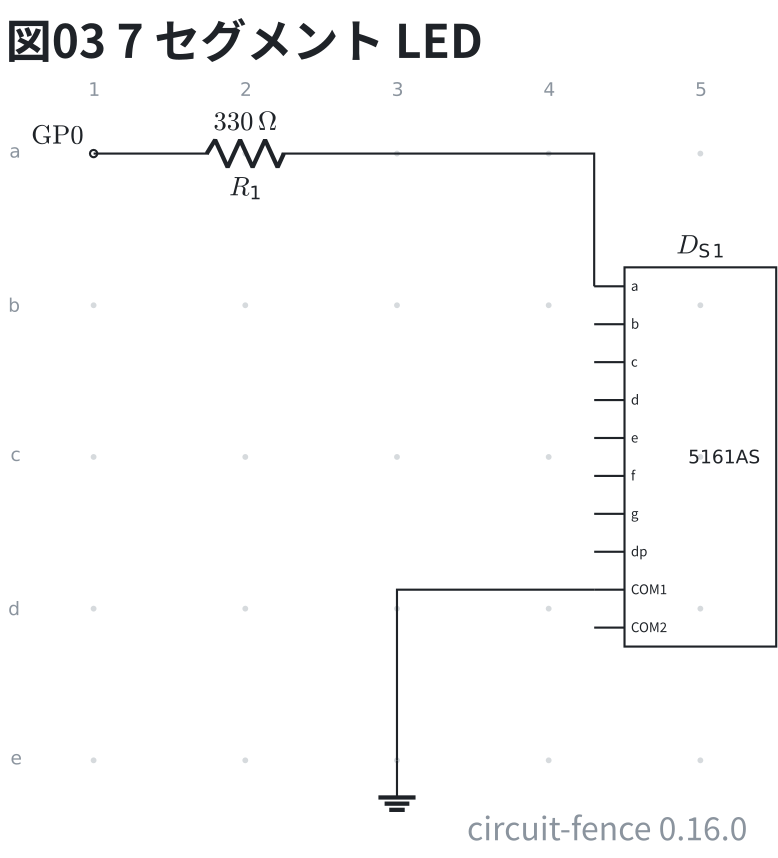
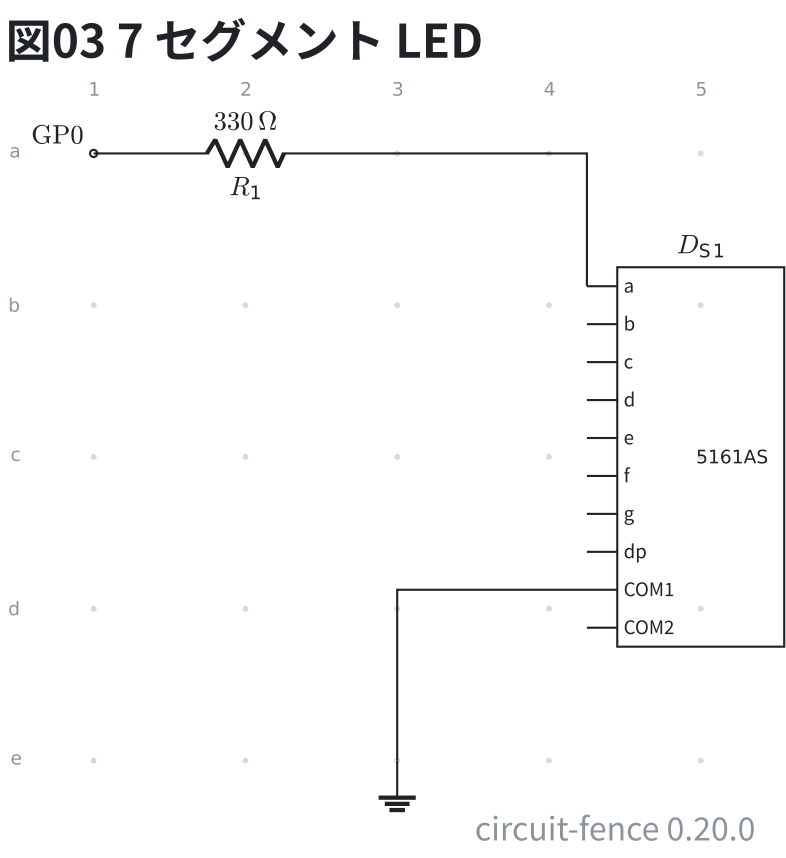
feat(circuit-fence): 働きで並べる ic に CD4511 を足す
🤖 Generated with [Claude Code](https://claude.com/claude-code)

diff --git a/packages/circuit-fence/src/core/parts.ts b/packages/circuit-fence/src/core/parts.ts
@@ -186,6 +186,11 @@ export type PartType = {
    */
   readonly pinLabels?: readonly string[];
   /**
+   * 足の名前の字の大きさ (TeX の命令)。既定は `\\tiny` — 40 本の DIP・ボードが
+   * 箱に収まる大きさ。足の少ない箱 (`ic`・`device`) は読める `\\scriptsize` にする。
+   */
+  readonly pinFont?: string;
+  /**
    * 足に書く番号 (`pinLabels` と同じ並び)。**名前と一緒に 1 つの字**として出し、
    * 番号は箱の外側の端に置く (`pinLabelText`)。持たない種類は名前だけ。
    */
@@ -617,6 +622,7 @@ export function deviceChip(names: readonly string[], label: string | null = null
     ]),
     pinRow: Object.fromEntries(anchors.map(([, anchor]) => [anchor, 'left' as const])),
     pinLabels: names,
+    pinFont: '\\scriptsize',
   };
 }
 
@@ -717,6 +723,7 @@ export function icChip(pinout: IcPinout): PartType {
     ...NO_UNIT,
     pins: named.pins,
     pinLabels: named.pinLabels,
+    pinFont: '\\scriptsize',
     pinNumbers: named.pinNumbers,
     pinNames: named.pinNames,
     // 並びは箱の上の順 (上の辺・左の辺・右の辺・下の辺)。升目がこの順で足を並べる。

diff --git a/packages/circuit-fence/src/core/icLayouts.ts b/packages/circuit-fence/src/core/icLayouts.ts
@@ -31,10 +31,23 @@ const timer555 = (power: string): IcLayout => ({
   bottom: ['GND', 'CONT'],
 });
 
+/**
+ * CD4511 (BCD → 7 セグ)。**入力 A〜D は左に下の桁から**、**出力 a〜g は右に
+ * セグメントの順** — 7 セグの箱を同じ順に並べれば線が交差しない。LT・BL は
+ * 普段 VDD に結ぶので VDD の隣 (上)、LE は普段 GND に結ぶので VSS の隣 (下)。
+ */
+const CD4511_LAYOUT: IcLayout = {
+  top: ['VDD', 'LT', 'BL'],
+  left: ['INA', 'INB', 'INC', 'IND'],
+  right: ['Oa', 'Ob', 'Oc', 'Od', 'Oe', 'Of', 'Og'],
+  bottom: ['VSS', 'LE/STROBE'],
+};
+
 /** 型番は fence-kit の表の**代表の綴り** (別の綴りも同じ行に当たる)。 */
 const LAYOUTS: readonly { readonly pins: number; readonly model: string; readonly layout: IcLayout }[] = [
   { pins: 8, model: 'NE555', layout: timer555('VCC') },
   { pins: 8, model: 'TLC555', layout: timer555('VDD') },
+  { pins: 16, model: 'CD4511B', layout: CD4511_LAYOUT },
 ];
 
 /** 型番から足の名前と働きの並びを引く。並びを持たない型番は null。 */

diff --git a/packages/circuit-fence/src/core/tex/generate.ts b/packages/circuit-fence/src/core/tex/generate.ts
@@ -1042,9 +1042,9 @@ function pinNameNodes(part: MultiTerminalPart, name: string, type: PartType | nu
     const options = [
       // フェンスは目印の色で置く (SVG で本物の字に差し替わる)。
       ...(target === 'latex' ? [] : [MARK_COLOR_NAME]),
-      // **40 本が箱に収まる大きさ**にする。`\scriptsize` だと左右の列が
-      // 箱の真ん中でぶつかった (実機で焼いて確かめた)。
-      'font=\\tiny',
+      // 既定は **40 本が箱に収まる大きさ**。`\scriptsize` だと左右の列が
+      // 箱の真ん中でぶつかった (実機で焼いて確かめた)。足の少ない箱は種類が大きくする (`pinFont`)。
+      `font=${type.pinFont ?? '\\tiny'}`,
       `anchor=${place.anchor}`,
       // 縁のすぐ内側へ。**`bpin` は枠の上の足** (`pin` は足の先) なので、
       // 線の太さぶんだけ逃がせば中に収まる。

diff --git a/packages/circuit-fence/src/core/tex/shapes.ts b/packages/circuit-fence/src/core/tex/shapes.ts
@@ -64,9 +64,9 @@ const SIP_NUMBER_AREA = 0.3;
  * 決め打ちの幅だと、`ECHO` と `HC-SR04` が重なり、`Analog Discovery` は縁から
  * はみ出した (実機で焼いて確かめた)。
  *
- * 字の幅は見積もり (cm / 字)。足の名前は `\tiny`、機器の名前は `\scriptsize`。
+ * 字の幅は見積もり (cm / 字)。足の名前も機器の名前も `\scriptsize`。
  */
-const PIN_NAME_CHAR = 0.1;
+const PIN_NAME_CHAR = 0.14;
 const LABEL_CHAR = 0.15;
 /** 足の名前の列の左右の余白と、機器の名前の左右の余白。 */
 const PIN_NAME_PAD = 0.2;

diff --git a/packages/circuit-fence/src/core/icLayouts.test.ts b/packages/circuit-fence/src/core/icLayouts.test.ts
@@ -33,3 +33,15 @@ describe('IC の働きの並び', () => {
     expect([...placed].sort()).toEqual([...pinout.names].sort());
   });
 });
+
+describe('CD4511 の働きの並び', () => {
+  it('入力 A〜D は左、出力 a〜g は右にセグメントの順で並ぶ', () => {
+    // Act
+    const layout = lookupIcPinout('CD4511')?.layout;
+
+    // Assert
+    expect(layout?.left).toEqual(['INA', 'INB', 'INC', 'IND']);
+    expect(layout?.right).toEqual(['Oa', 'Ob', 'Oc', 'Od', 'Oe', 'Of', 'Og']);
+    expect(layout?.bottom).toEqual(['VSS', 'LE/STROBE']);
+  });
+});

diff --git a/packages/circuit-fence/src/core/tex/icShape.ts b/packages/circuit-fence/src/core/tex/icShape.ts
@@ -27,8 +27,8 @@ export function icStepOf(pitch: number): number {
   if (half < MIN_STEP) return pitch;
   return half > MAX_STEP ? pitch / 4 : half;
 }
-/** 足の名前 (`\tiny`) と型番 (`\scriptsize`) の字の幅の見積もり (cm / 字)。 */
-const PIN_CHAR = 0.1;
+/** 足の名前と型番 (どちらも `\scriptsize`) の字の幅の見積もり (cm / 字)。 */
+const PIN_CHAR = 0.14;
 const MODEL_CHAR = 0.15;
 const MODEL_HEIGHT = 0.3;
 /** 縁から字まで、字と字の間、字の太さの半分、端の足から角まで。 */

diff --git a/packages/circuit-fence/examples/out/17-named-chips-3.tex b/packages/circuit-fence/examples/out/17-named-chips-3.tex
@@ -3,46 +3,46 @@
 \usetikzlibrary{calc}
 \definecolor{circuitnotemark}{HTML}{FE00FE}
 \makeatletter
-\pgfdeclareshape{dev10w10n6}{
+\pgfdeclareshape{dev10w11n8}{
   \anchor{center}{\pgfpointorigin}
-  \anchor{text}{\pgfpoint{0.3cm-.5\wd\pgfnodeparttextbox}{-.5\ht\pgfnodeparttextbox}}
-  \anchor{value}{\pgfpoint{0.3cm}{0cm}}
+  \anchor{text}{\pgfpoint{0.4cm-.5\wd\pgfnodeparttextbox}{-.5\ht\pgfnodeparttextbox}}
+  \anchor{value}{\pgfpoint{0.4cm}{0cm}}
   \anchor{north}{\pgfpoint{0cm}{2.5cm}}
   \anchor{south}{\pgfpoint{0cm}{-2.5cm}}
-  \anchor{east}{\pgfpoint{1cm}{0cm}}
-  \anchor{west}{\pgfpoint{-1cm}{0cm}}
-  \anchor{pin 1}{\pgfpoint{-1.4cm}{2.25cm}}
-  \anchor{bpin 1}{\pgfpoint{-1cm}{2.25cm}}
-  \anchor{pin 2}{\pgfpoint{-1.4cm}{1.75cm}}
-  \anchor{bpin 2}{\pgfpoint{-1cm}{1.75cm}}
-  \anchor{pin 3}{\pgfpoint{-1.4cm}{1.25cm}}
-  \anchor{bpin 3}{\pgfpoint{-1cm}{1.25cm}}
-  \anchor{pin 4}{\pgfpoint{-1.4cm}{0.75cm}}
-  \anchor{bpin 4}{\pgfpoint{-1cm}{0.75cm}}
-  \anchor{pin 5}{\pgfpoint{-1.4cm}{0.25cm}}
-  \anchor{bpin 5}{\pgfpoint{-1cm}{0.25cm}}
-  \anchor{pin 6}{\pgfpoint{-1.4cm}{-0.25cm}}
-  \anchor{bpin 6}{\pgfpoint{-1cm}{-0.25cm}}
-  \anchor{pin 7}{\pgfpoint{-1.4cm}{-0.75cm}}
-  \anchor{bpin 7}{\pgfpoint{-1cm}{-0.75cm}}
-  \anchor{pin 8}{\pgfpoint{-1.4cm}{-1.25cm}}
-  \anchor{bpin 8}{\pgfpoint{-1cm}{-1.25cm}}
-  \anchor{pin 9}{\pgfpoint{-1.4cm}{-1.75cm}}
-  \anchor{bpin 9}{\pgfpoint{-1cm}{-1.75cm}}
-  \anchor{pin 10}{\pgfpoint{-1.4cm}{-2.25cm}}
-  \anchor{bpin 10}{\pgfpoint{-1cm}{-2.25cm}}
+  \anchor{east}{\pgfpoint{1.1cm}{0cm}}
+  \anchor{west}{\pgfpoint{-1.1cm}{0cm}}
+  \anchor{pin 1}{\pgfpoint{-1.5cm}{2.25cm}}
+  \anchor{bpin 1}{\pgfpoint{-1.1cm}{2.25cm}}
+  \anchor{pin 2}{\pgfpoint{-1.5cm}{1.75cm}}
+  \anchor{bpin 2}{\pgfpoint{-1.1cm}{1.75cm}}
+  \anchor{pin 3}{\pgfpoint{-1.5cm}{1.25cm}}
+  \anchor{bpin 3}{\pgfpoint{-1.1cm}{1.25cm}}
+  \anchor{pin 4}{\pgfpoint{-1.5cm}{0.75cm}}
+  \anchor{bpin 4}{\pgfpoint{-1.1cm}{0.75cm}}
+  \anchor{pin 5}{\pgfpoint{-1.5cm}{0.25cm}}
+  \anchor{bpin 5}{\pgfpoint{-1.1cm}{0.25cm}}
+  \anchor{pin 6}{\pgfpoint{-1.5cm}{-0.25cm}}
+  \anchor{bpin 6}{\pgfpoint{-1.1cm}{-0.25cm}}
+  \anchor{pin 7}{\pgfpoint{-1.5cm}{-0.75cm}}
+  \anchor{bpin 7}{\pgfpoint{-1.1cm}{-0.75cm}}
+  \anchor{pin 8}{\pgfpoint{-1.5cm}{-1.25cm}}
+  \anchor{bpin 8}{\pgfpoint{-1.1cm}{-1.25cm}}
+  \anchor{pin 9}{\pgfpoint{-1.5cm}{-1.75cm}}
+  \anchor{bpin 9}{\pgfpoint{-1.1cm}{-1.75cm}}
+  \anchor{pin 10}{\pgfpoint{-1.5cm}{-2.25cm}}
+  \anchor{bpin 10}{\pgfpoint{-1.1cm}{-2.25cm}}
   \backgroundpath{
-    \pgfpathrectanglecorners{\pgfpoint{-1cm}{-2.5cm}}{\pgfpoint{1cm}{2.5cm}}
-    \pgfpathmoveto{\pgfpoint{-1.4cm}{2.25cm}}\pgfpathlineto{\pgfpoint{-1cm}{2.25cm}}
-    \pgfpathmoveto{\pgfpoint{-1.4cm}{1.75cm}}\pgfpathlineto{\pgfpoint{-1cm}{1.75cm}}
-    \pgfpathmoveto{\pgfpoint{-1.4cm}{1.25cm}}\pgfpathlineto{\pgfpoint{-1cm}{1.25cm}}
-    \pgfpathmoveto{\pgfpoint{-1.4cm}{0.75cm}}\pgfpathlineto{\pgfpoint{-1cm}{0.75cm}}
-    \pgfpathmoveto{\pgfpoint{-1.4cm}{0.25cm}}\pgfpathlineto{\pgfpoint{-1cm}{0.25cm}}
-    \pgfpathmoveto{\pgfpoint{-1.4cm}{-0.25cm}}\pgfpathlineto{\pgfpoint{-1cm}{-0.25cm}}
-    \pgfpathmoveto{\pgfpoint{-1.4cm}{-0.75cm}}\pgfpathlineto{\pgfpoint{-1cm}{-0.75cm}}
-    \pgfpathmoveto{\pgfpoint{-1.4cm}{-1.25cm}}\pgfpathlineto{\pgfpoint{-1cm}{-1.25cm}}
-    \pgfpathmoveto{\pgfpoint{-1.4cm}{-1.75cm}}\pgfpathlineto{\pgfpoint{-1cm}{-1.75cm}}
-    \pgfpathmoveto{\pgfpoint{-1.4cm}{-2.25cm}}\pgfpathlineto{\pgfpoint{-1cm}{-2.25cm}}
+    \pgfpathrectanglecorners{\pgfpoint{-1.1cm}{-2.5cm}}{\pgfpoint{1.1cm}{2.5cm}}
+    \pgfpathmoveto{\pgfpoint{-1.5cm}{2.25cm}}\pgfpathlineto{\pgfpoint{-1.1cm}{2.25cm}}
+    \pgfpathmoveto{\pgfpoint{-1.5cm}{1.75cm}}\pgfpathlineto{\pgfpoint{-1.1cm}{1.75cm}}
+    \pgfpathmoveto{\pgfpoint{-1.5cm}{1.25cm}}\pgfpathlineto{\pgfpoint{-1.1cm}{1.25cm}}
+    \pgfpathmoveto{\pgfpoint{-1.5cm}{0.75cm}}\pgfpathlineto{\pgfpoint{-1.1cm}{0.75cm}}
+    \pgfpathmoveto{\pgfpoint{-1.5cm}{0.25cm}}\pgfpathlineto{\pgfpoint{-1.1cm}{0.25cm}}
+    \pgfpathmoveto{\pgfpoint{-1.5cm}{-0.25cm}}\pgfpathlineto{\pgfpoint{-1.1cm}{-0.25cm}}
+    \pgfpathmoveto{\pgfpoint{-1.5cm}{-0.75cm}}\pgfpathlineto{\pgfpoint{-1.1cm}{-0.75cm}}
+    \pgfpathmoveto{\pgfpoint{-1.5cm}{-1.25cm}}\pgfpathlineto{\pgfpoint{-1.1cm}{-1.25cm}}
+    \pgfpathmoveto{\pgfpoint{-1.5cm}{-1.75cm}}\pgfpathlineto{\pgfpoint{-1.1cm}{-1.75cm}}
+    \pgfpathmoveto{\pgfpoint{-1.5cm}{-2.25cm}}\pgfpathlineto{\pgfpoint{-1.1cm}{-2.25cm}}
   }
 }
 \makeatother
@@ -67,18 +67,18 @@
 \coordinate (e3) at (4,-8);
 \draw (a1) node[ocirc]{} node[above left]{GP0}; % line 3
 \draw (a1) to[R, l_=$R_{1}$, a^=$330\,\Omega$] (a3); % line 4
-\node[dev10w10n6, draw, font=\scriptsize] (part-DS1) at (c5) {$\mathrm{5161AS}$}; % line 5
+\node[dev10w11n8, draw, font=\scriptsize] (part-DS1) at (c5) {$\mathrm{5161AS}$}; % line 5
 \node[anchor=south] at (part-DS1.north) {$D_{S1}$}; % line 5
-\node[circuitnotemark, font=\tiny, anchor=west, xshift=2pt, inner sep=0] at (part-DS1.bpin 1) {X}; % line 5
-\node[circuitnotemark, font=\tiny, anchor=west, xshift=2pt, inner sep=0] at (part-DS1.bpin 2) {X}; % line 5
-\node[circuitnotemark, font=\tiny, anchor=west, xshift=2pt, inner sep=0] at (part-DS1.bpin 3) {X}; % line 5
-\node[circuitnotemark, font=\tiny, anchor=west, xshift=2pt, inner sep=0] at (part-DS1.bpin 4) {X}; % line 5
-\node[circuitnotemark, font=\tiny, anchor=west, xshift=2pt, inner sep=0] at (part-DS1.bpin 5) {X}; % line 5
-\node[circuitnotemark, font=\tiny, anchor=west, xshift=2pt, inner sep=0] at (part-DS1.bpin 6) {X}; % line 5
-\node[circuitnotemark, font=\tiny, anchor=west, xshift=2pt, inner sep=0] at (part-DS1.bpin 7) {X}; % line 5
-\node[circuitnotemark, font=\tiny, anchor=west, xshift=2pt, inner sep=0] at (part-DS1.bpin 8) {X}; % line 5
-\node[circuitnotemark, font=\tiny, anchor=west, xshift=2pt, inner sep=0] at (part-DS1.bpin 9) {X}; % line 5
-\node[circuitnotemark, font=\tiny, anchor=west, xshift=2pt, inner sep=0] at (part-DS1.bpin 10) {X}; % line 5
+\node[circuitnotemark, font=\scriptsize, anchor=west, xshift=2pt, inner sep=0] at (part-DS1.bpin 1) {X}; % line 5
+\node[circuitnotemark, font=\scriptsize, anchor=west, xshift=2pt, inner sep=0] at (part-DS1.bpin 2) {X}; % line 5
+\node[circuitnotemark, font=\scriptsize, anchor=west, xshift=2pt, inner sep=0] at (part-DS1.bpin 3) {X}; % line 5
+\node[circuitnotemark, font=\scriptsize, anchor=west, xshift=2pt, inner sep=0] at (part-DS1.bpin 4) {X}; % line 5
+\node[circuitnotemark, font=\scriptsize, anchor=west, xshift=2pt, inner sep=0] at (part-DS1.bpin 5) {X}; % line 5
+\node[circuitnotemark, font=\scriptsize, anchor=west, xshift=2pt, inner sep=0] at (part-DS1.bpin 6) {X}; % line 5
+\node[circuitnotemark, font=\scriptsize, anchor=west, xshift=2pt, inner sep=0] at (part-DS1.bpin 7) {X}; % line 5
+\node[circuitnotemark, font=\scriptsize, anchor=west, xshift=2pt, inner sep=0] at (part-DS1.bpin 8) {X}; % line 5
+\node[circuitnotemark, font=\scriptsize, anchor=west, xshift=2pt, inner sep=0] at (part-DS1.bpin 9) {X}; % line 5
+\node[circuitnotemark, font=\scriptsize, anchor=west, xshift=2pt, inner sep=0] at (part-DS1.bpin 10) {X}; % line 5
 \node[ground] at (e3) {}; % line 6
 \draw (a3) -| (part-DS1.pin 1); % line 8
 \draw (part-DS1.pin 9) -| (e3); % line 9

diff --git a/packages/circuit-fence/examples/out/03-multi-terminal-6.tex b/packages/circuit-fence/examples/out/03-multi-terminal-6.tex
@@ -3,28 +3,28 @@
 \usetikzlibrary{calc}
 \definecolor{circuitnotemark}{HTML}{FE00FE}
 \makeatletter
-\pgfdeclareshape{dev4w11n6}{
+\pgfdeclareshape{dev4w12n8}{
   \anchor{center}{\pgfpointorigin}
-  \anchor{text}{\pgfpoint{0.3cm-.5\wd\pgfnodeparttextbox}{-.5\ht\pgfnodeparttextbox}}
-  \anchor{value}{\pgfpoint{0.3cm}{0cm}}
+  \anchor{text}{\pgfpoint{0.4cm-.5\wd\pgfnodeparttextbox}{-.5\ht\pgfnodeparttextbox}}
+  \anchor{value}{\pgfpoint{0.4cm}{0cm}}
   \anchor{north}{\pgfpoint{0cm}{1cm}}
   \anchor{south}{\pgfpoint{0cm}{-1cm}}
-  \anchor{east}{\pgfpoint{1.1cm}{0cm}}
-  \anchor{west}{\pgfpoint{-1.1cm}{0cm}}
-  \anchor{pin 1}{\pgfpoint{-1.5cm}{0.75cm}}
-  \anchor{bpin 1}{\pgfpoint{-1.1cm}{0.75cm}}
-  \anchor{pin 2}{\pgfpoint{-1.5cm}{0.25cm}}
-  \anchor{bpin 2}{\pgfpoint{-1.1cm}{0.25cm}}
-  \anchor{pin 3}{\pgfpoint{-1.5cm}{-0.25cm}}
-  \anchor{bpin 3}{\pgfpoint{-1.1cm}{-0.25cm}}
-  \anchor{pin 4}{\pgfpoint{-1.5cm}{-0.75cm}}
-  \anchor{bpin 4}{\pgfpoint{-1.1cm}{-0.75cm}}
+  \anchor{east}{\pgfpoint{1.2cm}{0cm}}
+  \anchor{west}{\pgfpoint{-1.2cm}{0cm}}
+  \anchor{pin 1}{\pgfpoint{-1.6cm}{0.75cm}}
+  \anchor{bpin 1}{\pgfpoint{-1.2cm}{0.75cm}}
+  \anchor{pin 2}{\pgfpoint{-1.6cm}{0.25cm}}
+  \anchor{bpin 2}{\pgfpoint{-1.2cm}{0.25cm}}
+  \anchor{pin 3}{\pgfpoint{-1.6cm}{-0.25cm}}
+  \anchor{bpin 3}{\pgfpoint{-1.2cm}{-0.25cm}}
+  \anchor{pin 4}{\pgfpoint{-1.6cm}{-0.75cm}}
+  \anchor{bpin 4}{\pgfpoint{-1.2cm}{-0.75cm}}
   \backgroundpath{
-    \pgfpathrectanglecorners{\pgfpoint{-1.1cm}{-1cm}}{\pgfpoint{1.1cm}{1cm}}
-    \pgfpathmoveto{\pgfpoint{-1.5cm}{0.75cm}}\pgfpathlineto{\pgfpoint{-1.1cm}{0.75cm}}
-    \pgfpathmoveto{\pgfpoint{-1.5cm}{0.25cm}}\pgfpathlineto{\pgfpoint{-1.1cm}{0.25cm}}
-    \pgfpathmoveto{\pgfpoint{-1.5cm}{-0.25cm}}\pgfpathlineto{\pgfpoint{-1.1cm}{-0.25cm}}
-    \pgfpathmoveto{\pgfpoint{-1.5cm}{-0.75cm}}\pgfpathlineto{\pgfpoint{-1.1cm}{-0.75cm}}
+    \pgfpathrectanglecorners{\pgfpoint{-1.2cm}{-1cm}}{\pgfpoint{1.2cm}{1cm}}
+    \pgfpathmoveto{\pgfpoint{-1.6cm}{0.75cm}}\pgfpathlineto{\pgfpoint{-1.2cm}{0.75cm}}
+    \pgfpathmoveto{\pgfpoint{-1.6cm}{0.25cm}}\pgfpathlineto{\pgfpoint{-1.2cm}{0.25cm}}
+    \pgfpathmoveto{\pgfpoint{-1.6cm}{-0.25cm}}\pgfpathlineto{\pgfpoint{-1.2cm}{-0.25cm}}
+    \pgfpathmoveto{\pgfpoint{-1.6cm}{-0.75cm}}\pgfpathlineto{\pgfpoint{-1.2cm}{-0.75cm}}
   }
 }
 \makeatother
@@ -55,13 +55,13 @@
 \coordinate (d6) at (10,-6);
 \coordinate (f6) at (10,-10);
 \coordinate (f4) at (6,-10);
-\node[dev4w11n6, draw, font=\scriptsize, xscale=-1] (part-M1) at (c2) {}; % line 3
+\node[dev4w12n8, draw, font=\scriptsize, xscale=-1] (part-M1) at (c2) {}; % line 3
 \node[font=\scriptsize] at (part-M1.value) {$\mathrm{HC\mbox{-}SR04}$}; % line 3
 \node[anchor=south] at (part-M1.north) {$M_{1}$}; % line 3
-\node[circuitnotemark, font=\tiny, anchor=east, xshift=-2pt, inner sep=0] at (part-M1.bpin 1) {X}; % line 3
-\node[circuitnotemark, font=\tiny, anchor=east, xshift=-2pt, inner sep=0] at (part-M1.bpin 2) {X}; % line 3
-\node[circuitnotemark, font=\tiny, anchor=east, xshift=-2pt, inner sep=0] at (part-M1.bpin 3) {X}; % line 3
-\node[circuitnotemark, font=\tiny, anchor=east, xshift=-2pt, inner sep=0] at (part-M1.bpin 4) {X}; % line 3
+\node[circuitnotemark, font=\scriptsize, anchor=east, xshift=-2pt, inner sep=0] at (part-M1.bpin 1) {X}; % line 3
+\node[circuitnotemark, font=\scriptsize, anchor=east, xshift=-2pt, inner sep=0] at (part-M1.bpin 2) {X}; % line 3
+\node[circuitnotemark, font=\scriptsize, anchor=east, xshift=-2pt, inner sep=0] at (part-M1.bpin 3) {X}; % line 3
+\node[circuitnotemark, font=\scriptsize, anchor=east, xshift=-2pt, inner sep=0] at (part-M1.bpin 4) {X}; % line 3
 \draw (a7) node[ocirc]{} node[above left]{VBUS}; % line 9
 \draw (b8) node[ocirc]{} node[above left]{GP14}; % line 10
 \draw (d8) node[ocirc]{} node[above left]{GP15}; % line 11
